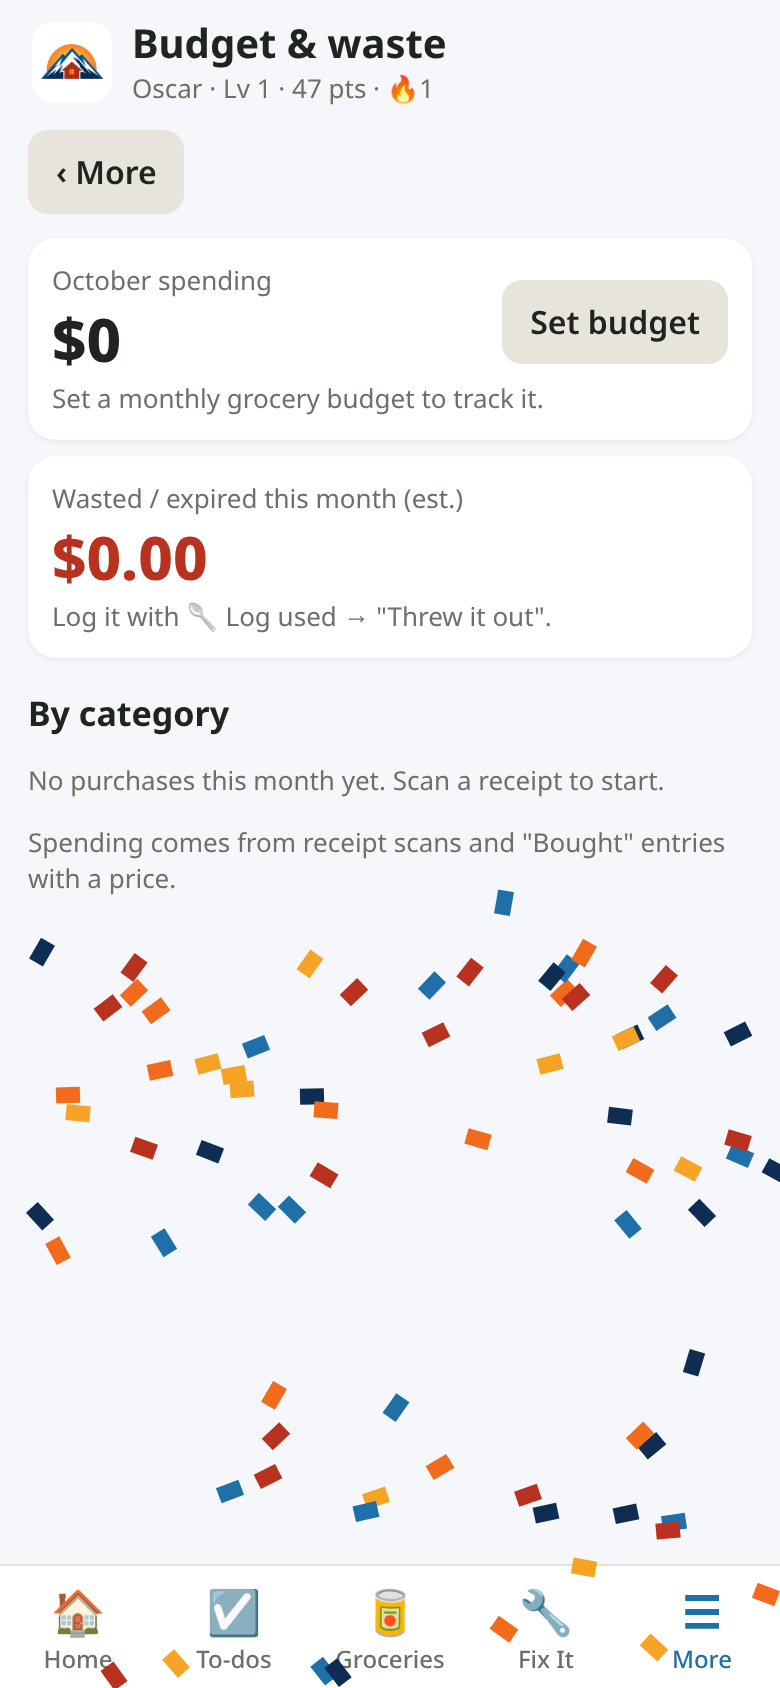
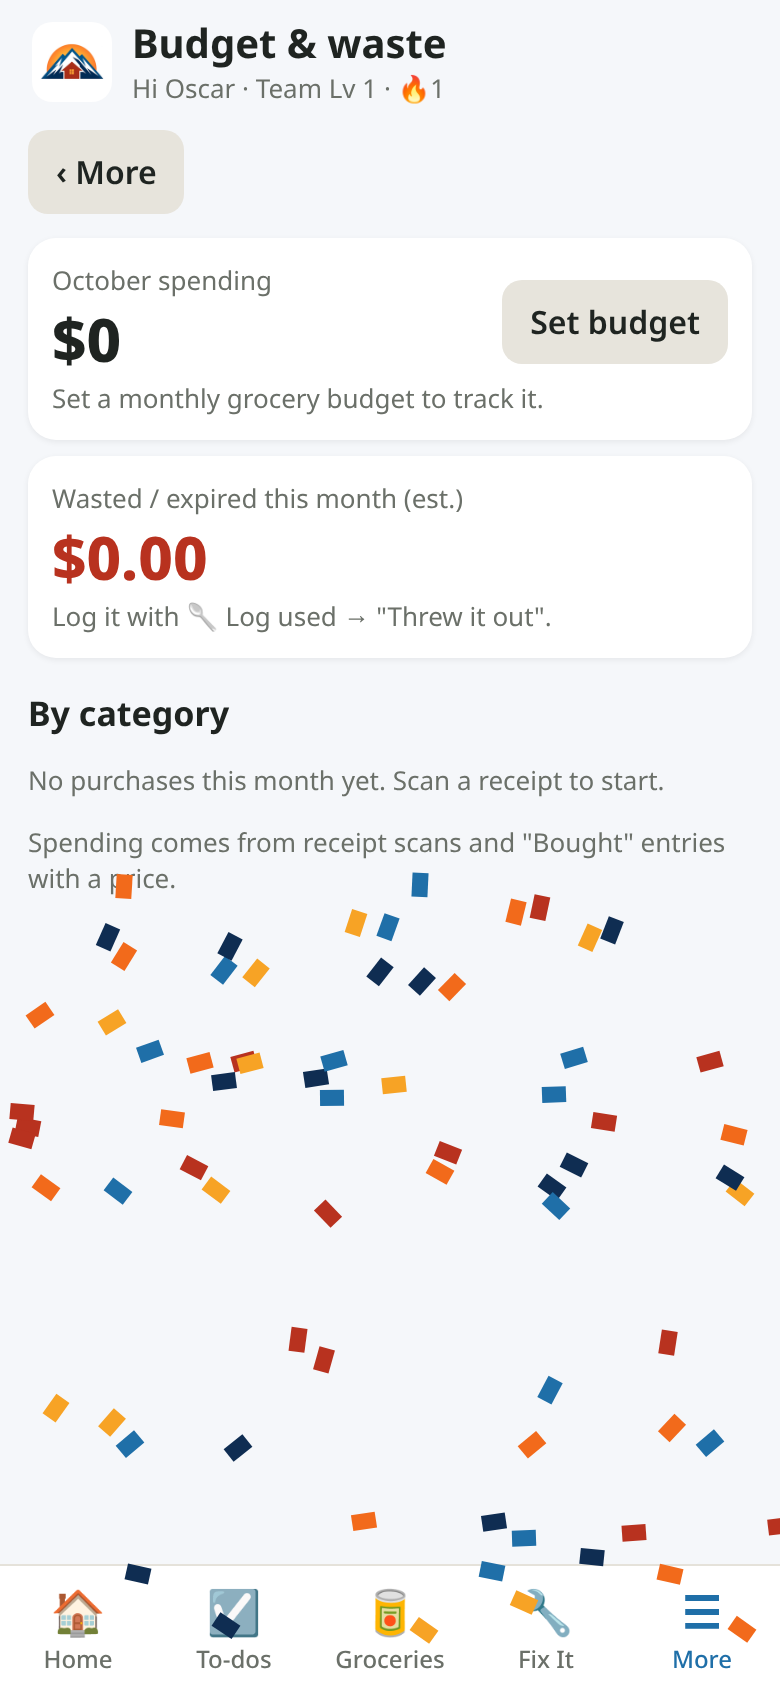
Cooperative game: team points/level/streak, weekly team goal, shared rewards, team badges, weekly recap with thanks; SW v6

diff --git a/index.html b/index.html
@@ -114,15 +114,15 @@ function events(){const ev=[];
  S.fixes.forEach(f=>{ev.push({who:f.by,pts:P.fixReq,at:f.at,k:'fixreq'});if(f.status==='fixed')ev.push({who:f.fixedBy||'oscar',pts:P.fix,at:f.fixedAt,k:'fix'})});
  return ev.filter(e=>e.who&&e.at)}
 const weekStart=d=>{const x=new Date(d);x.setHours(0,0,0,0);x.setDate(x.getDate()-x.getDay());return x};
-function stats(k){const ev=events().filter(e=>e.who===k),tot=ev.reduce((a,e)=>a+e.pts,0),ws=+weekStart(Date.now());
+function stats(k){const ev=events().filter(e=>!k||e.who===k),tot=ev.reduce((a,e)=>a+e.pts,0),ws=+weekStart(Date.now());
  const wk=ev.filter(e=>e.at>=ws).reduce((a,e)=>a+e.pts,0);
  const days=new Set(ev.map(e=>new Date(e.at).toLocaleDateString('en-CA')));let st=0,d=new Date();
  if(!days.has(d.toLocaleDateString('en-CA')))d.setDate(d.getDate()-1);
  while(days.has(d.toLocaleDateString('en-CA'))){st++;d.setDate(d.getDate()-1)}
  const lvl=Math.floor(Math.sqrt(tot/50))+1,cnt=x=>ev.filter(e=>e.k===x).length;
- const B=[['🌱','First points',tot>0],['✅','10 to-dos',cnt('todo')>=10],['🧾','Receipt scanner',cnt('scan')>=1],['🥕','Waste warrior (10 saves)',cnt('saved')>=10],
-  ['🔧','Fixer (5 fixes)',cnt('fix')>=5],['🔥','7-day streak',st>=7],['🏆','Level 5',lvl>=5],['💯','500 points',tot>=500]];
- const spent=S.logs.filter(l=>l.type==='redeem'&&l.by===k).reduce((a,l)=>a+(+l.cost||0),0);
+ const B=[['🌱','First team points',tot>0],['✅','25 to-dos together',cnt('todo')>=25],['🧾','First receipt scanned',cnt('scan')>=1],['🥕','Saved 10 foods from waste',cnt('saved')>=10],
+  ['🔧','5 fixes done',cnt('fix')>=5],['🧹','10 chores done',cnt('chore')>=10],['🍽','Cooked 5 planned meals',cnt('cook')>=5],['🔥','7-day team streak',st>=7],['🏡','Team level 5',lvl>=5],['💯','1,000 team points',tot>=1000]];
+ const spent=S.logs.filter(l=>l.type==='redeem').reduce((a,l)=>a+(+l.cost||0),0);
  return{tot,wk,st,lvl,next:50*lvl*lvl,B,bal:tot-spent}}
 function celebrate(p){const e=document.createElement('div');e.className='pop';e.textContent=typeof p==='number'?'+'+p+' pts':p;document.body.append(e);setTimeout(()=>e.remove(),1200);
  for(let i=0;i<24;i++){const c=document.createElement('i');c.className='conf';c.style.left=Math.random()*100+'vw';c.style.background=['#0f2d52','#f26a1b','#b8321f','#1f6fa8','#f7a325'][i%5];c.style.animationDelay=Math.random()*.3+'s';document.body.append(c);setTimeout(()=>c.remove(),2100)}
@@ -140,7 +140,7 @@ function R(){
  $('#nav').innerHTML=TABS.map(([k,i,l])=>`<button class="${S.tab===k?'on':''}" data-t="${k}"><b>${i}</b>${l}${k==='fix'&&openFix?`<span class="badge">${openFix}</span>`:''}</button>`).join('');
  $('#nav').querySelectorAll('button').forEach(b=>b.onclick=()=>{S.tab=b.dataset.t;S.sub=null;if(S.tab==='fix'){S.seenFix=Date.now();localStorage.seenFix=S.seenFix}R();scrollTo(0,0)});
  $('#ttl').textContent=S.sub?SUBS.find(x=>x[0]===S.sub)[2]:TABS.find(t=>t[0]===S.tab)[2];
- const st=stats(S.me);$('#who').textContent=`${nm(S.me)} · Lv ${st.lvl} · ${st.tot} pts · 🔥${st.st}`;
+ const st=stats();$('#who').textContent=`Hi ${nm(S.me)} · Team Lv ${st.lvl} · 🔥${st.st}`;
  $('#addBtn').hidden=!['todos','pantry','fix'].includes(S.tab);
  $('#main').innerHTML=S.sub?(S.sub!=='more'?'<button class="s" data-sub="" style="margin:4px 0">‹ More</button>':'')+VIEWS[S.sub]():({home:vHome,todos:vTodos,pantry:vPantry,fix:vFix,more:vMore})[S.tab]();
  bind()}
@@ -173,14 +173,30 @@ function vStats(){const now=new Date(),start=S.cmp==='week'?weekStart(now):new D
  <div class="sub">Bought ${+r.b.toFixed(2)} · Used ${+r.u.toFixed(2)} · Wasted ${+r.w.toFixed(2)} ${esc(r.i.unit)}</div>
  <div class="bar" style="margin-top:6px"><i style="width:${r.u/m*100}%;background:var(--g)"></i><i style="width:${r.w/m*100}%;background:var(--r)"></i><i style="width:${Math.max(0,r.b-r.u-r.w)/m*100}%;background:#cfd8d3"></i></div></div>`}).join('')||'<p class="sub">No purchases or usage logged in this period yet.</p>'}
  <p class="sub">🟩 used · 🟥 wasted/expired · ⬜ still left</p>`}
-function vGame(){const o=stats('oscar'),w=stats('wife'),lead=o.wk===w.wk?'Tied this week!':(o.wk>w.wk?nm('oscar'):nm('wife'))+' leads this week';
- const card=(k,s)=>`<div class="card"><div class="row"><b>${esc(nm(k))}</b><span class="n pill lo">Lv ${s.lvl}</span></div>
- <div class="row center" style="margin:8px 0"><div><div class="big">${s.wk}</div><div class="sub">this week</div></div><div><div class="big">${s.tot}</div><div class="sub">total</div></div><div><div class="big">🔥${s.st}</div><div class="sub">day streak</div></div></div>
- <div class="bar"><i style="width:${Math.min(100,s.tot/s.next*100)}%;background:var(--o)"></i></div><div class="sub">${s.next-s.tot} pts to level ${s.lvl+1}</div>
- <div style="margin-top:8px">${s.B.map(([i,l,on])=>`<span class="pill" style="opacity:${on?1:.3}" title="${l}">${i} ${l}</span>`).join(' ')}</div></div>`;
- return `<div class="card center"><div class="sub">Weekly scoreboard</div><div class="big">${o.wk} – ${w.wk}</div><div>${esc(lead)} 🏆</div></div>${card('oscar',o)}${card('wife',w)}
- <div class="card sub">Points: to-do ${P.todo} · fix ${P.fix} · fix request ${P.fixReq} · log usage ${P.used} (+${P.beforeExp} if used before it expires) · log purchase ${P.bought} · receipt scan ${P.scan}. Week resets Sunday.</div>
- <div class="card"><label class="sub">Names</label><div class="row"><input id="n1" value="${esc(nm('oscar'))}"><input id="n2" value="${esc(nm('wife'))}"><button class="n" id="saveN">Save</button></div>
+const goal=()=>+S.meta.goal||300;
+function goalCard(){const t=stats(),g=goal(),p=Math.min(100,t.wk/g*100);
+ return `<div class="card" data-go="score"><div class="row"><b>Team goal: ${g} pts this week</b><span class="n sub">${t.wk>=g?'🎉 Done!':''}</span></div>
+ <div class="bar" style="height:14px;margin:8px 0"><i style="width:${p}%;background:linear-gradient(90deg,var(--teal),var(--o))"></i></div>
+ <div class="sub">${t.wk} pts so far${t.wk<g?` · ${g-t.wk} to go together`:' · nice work, team!'}</div></div>`}
+function recap(){const ws=+weekStart(Date.now()),ev=events().filter(e=>e.at>=ws),c=k=>ev.filter(e=>e.k===k).length;
+ const now=new Date(),ms=+new Date(now.getFullYear(),now.getMonth(),1),b=+S.meta.budget||0;
+ const spent=S.logs.filter(l=>l.type==='bought'&&l.at>=ms).reduce((a,l)=>a+(+l.price||0),0);
+ const L=[[c('todo'),'to-dos done','✅'],[c('fix'),'things fixed','🔧'],[c('saved')+c('used'),'foods used up','🥕'],[c('chore'),'chores done','🧹'],[c('cook'),'home-cooked dinners','🍽'],[c('maint'),'home care tasks','🛠']].filter(x=>x[0]);
+ const thanks=['oscar','wife'].map(k=>{const e=ev.filter(x=>x.who===k),bits=[];const n=x=>e.filter(y=>y.k===x).length;
+  if(n('fix'))bits.push(`fixed ${n('fix')} thing${n('fix')>1?'s':''}`);if(n('todo'))bits.push(`finished ${n('todo')} to-do${n('todo')>1?'s':''}`);
+  const items=S.logs.filter(l=>l.type==='bought'&&l.by===k&&l.at>=ws).length;if(items)bits.push(`added ${items} item${items>1?'s':''}`);
+  if(n('chore'))bits.push(`did ${n('chore')} chore${n('chore')>1?'s':''}`);if(n('cook'))bits.push(`cooked dinner`);if(n('fixreq'))bits.push(`spotted ${n('fixreq')} fix${n('fixreq')>1?'es':''}`);
+  return bits.length?`💛 Thanks ${esc(nm(k))}: ${bits.join(', ')}`:''}).filter(Boolean);
+ return `<div class="card"><b>This week we…</b>${L.length?L.map(x=>`<div style="margin-top:6px">${x[2]} ${x[0]} ${x[0]===1?x[1].replace(/^(\S+?)s\b/,'$1').replace('dinners','dinner').replace('tasks','task').replace('foods','food'):x[1]}</div>`).join(''):'<div class="sub" style="margin-top:6px">Just getting started. Every little thing counts!</div>'}
+ ${b?`<div style="margin-top:6px">💵 ${spent<=b?`$${(b-spent).toFixed(0)} under budget this month`:`$${(spent-b).toFixed(0)} over budget this month`}</div>`:''}
+ ${thanks.length?`<div class="sub" style="margin-top:10px">${thanks.join('<br>')}</div>`:''}</div>`}
+function vGame(){const t=stats();
+ return goalCard()+`<div class="card"><div class="row center"><div><div class="big">${t.tot}</div><div class="sub">team points</div></div><div><div class="big">Lv ${t.lvl}</div><div class="sub">team level</div></div><div><div class="big">🔥${t.st}</div><div class="sub">day streak</div></div></div>
+ <div class="bar" style="margin-top:8px"><i style="width:${Math.min(100,t.tot/t.next*100)}%;background:var(--o)"></i></div><div class="sub">${t.next-t.tot} pts to team level ${t.lvl+1}</div></div>`+recap()+
+ `<h2>Team badges</h2><div class="card">${t.B.map(([i,l,on])=>`<span class="pill" style="opacity:${on?1:.3};margin:3px 2px">${i} ${l}</span>`).join(' ')}</div>
+ <div class="card sub">Everything you both do adds to one team total: to-do ${P.todo} · fix ${P.fix} · spotting a fix ${P.fixReq} · using food ${P.used} (+${P.beforeExp} before it expires) · purchase ${P.bought} · receipt scan ${P.scan} · chores & home care too. Spend team points together in the Rewards shop.</div>
+ <div class="card"><label class="sub">Weekly team goal (points)</label><div class="row"><input id="tg" type="number" inputmode="numeric" value="${goal()}"><button class="n" id="saveG">Save</button></div>
+ <label class="sub" style="margin-top:10px;display:block">Names</label><div class="row"><input id="n1" value="${esc(nm('oscar'))}"><input id="n2" value="${esc(nm('wife'))}"><button class="n" id="saveN">Save</button></div>
  <p class="sub">Signed in as ${esc(auth.currentUser?.email)} · <a href="#" id="so2">Sign out</a></p></div>`}
 // ---------- sheets ----------
 function sheet(html,onSave){$('#sheet').innerHTML=`<div class="sheet"><div>${html}<div class="row" style="margin-top:14px"><button class="s" id="shX">Cancel</button>${onSave?'<button id="shOk">Save</button>':''}</div></div></div>`;
@@ -271,14 +287,14 @@ function quickUse(){if(!S.items.length){alert('Your pantry is empty. Scan a rece
  async()=>{const i=S.items.find(x=>x.id===$('#qi').value),q=+val('qq');if(!i||!q)return false;const p=await logQty(i,$('#qt').value,q);if(p)celebrate(p)})}
 function maintDue(){return S.maint.map(m=>({...m,due:m.last?addDays(m.last,m.every):today()})).sort((a,b)=>a.due>b.due?1:-1)}
 function nextDates(){return S.dates.map(d=>{let n=d.date;if(d.yearly&&n){const t=today(),y=+t.slice(0,4);n=y+n.slice(4);if(n<t)n=(y+1)+n.slice(4)}return{...d,next:n,days:n?daysTo(n):null,yrs:d.yearly&&d.date?(+String(n).slice(0,4))-(+d.date.slice(0,4)):0}}).filter(d=>d.next).sort((a,b)=>a.days-b.days)}
-function vHome(){const st=stats(S.me),o=stats('oscar'),w=stats('wife'),t=today();
+function vHome(){const t=today();
  const dueT=S.todos.filter(x=>!x.done&&x.due&&x.due<=t&&(x.who===S.me||x.who==='both')).length,fx=S.fixes.filter(f=>f.status!=='fixed').length,sh=lowItems().length+S.shop.filter(x=>!x.done).length;
  const md=maintDue().filter(m=>m.due<=addDays(t,7)),ch=S.chores.filter(c=>c.next<=t),nd=nextDates()[0],dinner=(S.meta.plan||{})[t],dm=dinner&&S.meals.find(m=>m.id===dinner);
  const big=(a,i,l)=>`<button data-q="${a}" style="padding:18px 8px;font-size:17px;border-radius:16px"><div style="font-size:30px">${i}</div>${l}</button>`;
  const line=(i,txt,go)=>`<div class="card row" data-go="${go}"><span class="n" style="font-size:22px">${i}</span><div>${txt}</div><span class="n sub">›</span></div>`;
- return (localStorage.hintDone?'':`<div class="card" style="background:#fff7ec"><b>Welcome to Arpero Family 👋</b><div class="sub" style="margin:6px 0">Use the big buttons for the everyday stuff. Everything syncs between both phones. You both earn points: to-dos, fixes, chores, and using food before it goes bad. Budget, meals, chores, rewards, home care and date night are under More.</div><button class="s" id="hintX">Got it</button></div>`)+
+ return (localStorage.hintDone?'':`<div class="card" style="background:#fff7ec"><b>Welcome to Arpero Family 👋</b><div class="sub" style="margin:6px 0">Use the big buttons for the everyday stuff. Everything syncs between both phones. Everything you both do adds to one team score: to-dos, fixes, chores, and using food before it goes bad. Budget, meals, chores, rewards, home care and date night are under More.</div><button class="s" id="hintX">Got it</button></div>`)+
  `<div style="display:grid;grid-template-columns:1fr 1fr;gap:10px;margin:8px 0">${big('scan','🧾','Scan receipt')}${big('fix','📸','Fix It photo')}${big('todo','✅','Add to-do')}${big('use','🥄','Log used')}</div>
- <div class="card row center" data-go="score"><div><div class="sub">${esc(nm('oscar'))}</div><div class="big">${o.wk}</div></div><div class="n">🏆<div class="sub">this week</div></div><div><div class="sub">${esc(nm('wife'))}</div><div class="big">${w.wk}</div></div></div>`+
+ ${goalCard()}`+
  (dueT?line('☑',`<b>${dueT}</b> to-do${dueT>1?'s':''} due for you`,'t:todos'):'')+
  (fx?line('🔧',`<b>${fx}</b> open Fix It request${fx>1?'s':''}`,'t:fix'):'')+
  (ch.length?line('🧹',`Chore: <b>${esc(ch[0].name)}</b> (${esc(nm(ch[0].turn))})${ch.length>1?` + ${ch.length-1} more`:''}`,'chores'):'')+
@@ -286,7 +302,7 @@ function vHome(){const st=stats(S.me),o=stats('oscar'),w=stats('wife'),t=today()
  (sh?line('🛒',`<b>${sh}</b> on the shopping list`,'t:shop'):'')+
  line('🍽',dm?`Tonight: <b>${esc(dm.name)}</b>`:'No dinner planned tonight','meals')+
  (nd?line('📅',`<b>${esc(nd.name)}</b> ${nd.days===0?'is today! 🎉':'in '+nd.days+' day'+(nd.days>1?'s':'')}`,'dates'):'')}
-const SUBS=[['budget','💵','Budget & waste'],['compare','📊','Bought vs used'],['meals','🍽','Meal planner'],['chores','🧹','Chores'],['rewards','🎁','Rewards shop'],['maint','🛠','Home care'],['dates','💑','Date night & dates'],['score','🏆','Scoreboard & settings']];
+const SUBS=[['budget','💵','Budget & waste'],['compare','📊','Bought vs used'],['meals','🍽','Meal planner'],['chores','🧹','Chores'],['rewards','🎁','Rewards shop'],['maint','🛠','Home care'],['dates','💑','Date night & dates'],['score','🏡','Team & settings']];
 function vMore(){return SUBS.map(([k,i,l])=>`<div class="card row" data-sub="${k}"><span class="n" style="font-size:24px">${i}</span><b>${l}</b><span class="n sub">›</span></div>`).join('')}
 function vBudget(){const now=new Date(),ms=+new Date(now.getFullYear(),now.getMonth(),1),b=+S.meta.budget||0;
  const L=S.logs.filter(l=>l.at>=ms&&l.item),cat={};let spent=0,waste=0;
@@ -312,9 +328,9 @@ function editMeal(m={}){sheet(`<h2>${m.id?'Edit':'New'} meal</h2><label>Name</la
 function vChores(){const t=today();return `<p class="sub">Chores repeat and take turns between you two. Done = points.</p>`+S.chores.slice().sort((a,b)=>a.next>b.next?1:-1).map(c=>`<div class="card row"><div data-chore="${c.id}"><b>${esc(c.name)}</b><div class="sub">${esc(nm(c.turn))}'s turn · every ${c.every} days · ${c.pts} pts ${c.next<=t?'<span class="pill hi">Due</span>':`<span class="pill">${c.next.slice(5)}</span>`}</div></div><button class="n" data-chdone="${c.id}">Done</button></div>`).join('')+`<button class="s" id="newChore" style="width:100%">＋ New chore</button>`}
 function editChore(c={}){sheet(`<h2>${c.id?'Edit':'New'} chore</h2><label>Chore</label><input id="cn" value="${esc(c.name)}" placeholder="Take out trash"><div class="row"><div><label>Every (days)</label><input id="ce" type="number" inputmode="numeric" value="${c.every||7}"></div><div><label>Points</label><input id="cp" type="number" inputmode="numeric" value="${c.pts||10}"></div></div><label>Whose turn first</label>${whoSel(c.turn||S.me).replace('<option value="both"','<option disabled value="both"')}${c.id?'<button class="d" id="cdel">Delete</button>':''}`,
  ()=>{if(!val('cn'))return false;save('chores',{id:c.id||uid(),name:val('cn'),every:+val('ce')||7,pts:+val('cp')||10,turn:$('#fw').value==='both'?'oscar':$('#fw').value,next:c.next||today()})});if(c.id)$('#cdel').onclick=()=>{del('chores',c.id);close()}}
-function vRewards(){const st=stats(S.me);return `<div class="card center"><div class="sub">Your points to spend</div><div class="big">${st.bal}</div></div><p class="sub">Make up prizes together (back rub, pick the movie, sleep in…). Redeem with points.</p>`+
- S.rewards.map(r=>`<div class="card row"><div><b>${esc(r.name)}</b><div class="sub">${r.cost} pts</div></div><button class="n" data-redeem="${r.id}" ${st.bal<r.cost?'disabled style="opacity:.4"':''}>Redeem</button><button class="d n" data-rdel="${r.id}">✕</button></div>`).join('')+`<button class="s" id="newReward" style="width:100%">＋ New prize</button>
- <h2>Recently redeemed</h2>${S.logs.filter(l=>l.type==='redeem').sort((a,b)=>b.at-a.at).slice(0,8).map(l=>`<div class="sub">🎁 ${esc(nm(l.by))}: ${esc(l.name)} (−${l.cost}) · ${new Date(l.at).toLocaleDateString()}</div>`).join('')||'<p class="sub">None yet.</p>'}`}
+function vRewards(){const st=stats();return `<div class="card center"><div class="sub">Team points to spend</div><div class="big">${st.bal}</div></div><p class="sub">Shared treats you unlock together. Pick them as a team.</p>`+(S.rewards.length?'':`<div class="card"><p>Start with a few ideas? Movie night, takeout night, date night…</p><button id="seedR">Add starter rewards</button></div>`)+
+ S.rewards.map(r=>`<div class="card row"><div><b>${esc(r.name)}</b><div class="sub">${r.cost} pts</div></div><button class="n" data-redeem="${r.id}" ${st.bal<r.cost?'disabled style="opacity:.4"':''}>${st.bal<r.cost?'🔒 '+(r.cost-st.bal)+' to go':'Unlock'}</button><button class="d n" data-rdel="${r.id}">✕</button></div>`).join('')+`<button class="s" id="newReward" style="width:100%">＋ New prize</button>
+ <h2>Recently redeemed</h2>${S.logs.filter(l=>l.type==='redeem').sort((a,b)=>b.at-a.at).slice(0,8).map(l=>`<div class="sub">🎁 ${esc(l.name)} (−${l.cost}) · ${new Date(l.at).toLocaleDateString()}</div>`).join('')||'<p class="sub">None yet.</p>'}`}
 const MDEF=[['Replace AC filter',90],['Flush water heater',365],['Test smoke detectors',30],['Replace smoke detector batteries',365],['Check Powerwall & solar in Tesla app',30],['Inspect EV charger & cable',90],['Clean dryer vent',365],['Clean fridge coils',180]];
 function vMaint(){const L=maintDue();return (L.length?'':`<div class="card"><p>Start with the usual list? (AC filter, water heater, smoke detectors, Powerwall/solar, EV charger…)</p><button id="seedM">Add the usual list</button></div>`)+
  L.map(m=>{const d=daysTo(m.due);return`<div class="card row"><div data-mt="${m.id}"><b>${esc(m.name)}</b><div class="sub">every ${m.every} days · ${m.last?'last '+m.last.slice(5):'never logged'} ${d<=0?'<span class="pill hi">Due</span>':d<=7?`<span class="pill md">in ${d}d</span>`:`<span class="pill">in ${d}d</span>`}</div></div><button class="n" data-mdone="${m.id}">Done</button></div>`}).join('')+`<button class="s" id="newMaint" style="width:100%">＋ New reminder</button>`}
@@ -346,7 +362,9 @@ function bindExtra(on){
  on('[data-chore]',e=>editChore(S.chores.find(x=>x.id===e.dataset.chore)));on('#newChore',()=>editChore());
  on('[data-chdone]',async e=>{const c=S.chores.find(x=>x.id===e.dataset.chdone);await save('chores',{...c,next:addDays(today(),c.every),turn:c.turn==='oscar'?'wife':'oscar'});await plog('chore',c.pts,{name:c.name});celebrate(c.pts)});
  on('#newReward',()=>sheet(`<h2>New prize</h2><label>Prize</label><input id="rn" placeholder="Pick the movie"><label>Cost (points)</label><input id="rc" type="number" inputmode="numeric" value="100">`,()=>{if(!val('rn'))return false;save('rewards',{id:uid(),name:val('rn'),cost:+val('rc')||100})}));
- on('[data-redeem]',async e=>{const r=S.rewards.find(x=>x.id===e.dataset.redeem);if(stats(S.me).bal<r.cost||!confirm(`Redeem "${r.name}" for ${r.cost} points?`))return;await plog('redeem',0,{name:r.name,cost:r.cost});celebrate('🎁')});
+ on('[data-redeem]',async e=>{const r=S.rewards.find(x=>x.id===e.dataset.redeem);if(stats().bal<r.cost||!confirm(`Unlock "${r.name}" for ${r.cost} team points?`))return;await plog('redeem',0,{name:r.name,cost:r.cost});celebrate('🎁')});
+ on('#seedR',async()=>{for(const [n,c] of [['🍿 Movie night',150],['🥡 Takeout night',300],['🍦 Ice cream run',100],['💑 Date night out',500],['😴 Sleep-in Saturday',250]])await save('rewards',{id:uid(),name:n,cost:c})});
+ on('#saveG',()=>F.setDoc(dref('meta','settings'),{goal:+val('tg')||300},{merge:true}));
  on('[data-rdel]',e=>del('rewards',e.dataset.rdel));
  on('#seedM',async()=>{for(const [n,d] of MDEF)await save('maint',{id:uid(),name:n,every:d,last:''})});
  on('[data-mt]',e=>editMaint(S.maint.find(x=>x.id===e.dataset.mt)));on('#newMaint',()=>editMaint());

diff --git a/sw.js b/sw.js
@@ -1,4 +1,4 @@
-const C='arpero-family-v5',F=['./','index.html','parse.js','manifest.json','icon-180.png','icon-192.png','icon-512.png','apple-touch-icon.png','logo.png','favicon-32.png'];
+const C='arpero-family-v6',F=['./','index.html','parse.js','manifest.json','icon-180.png','icon-192.png','icon-512.png','apple-touch-icon.png','logo.png','favicon-32.png'];
 self.addEventListener('install',e=>{e.waitUntil(caches.open(C).then(c=>c.addAll(F)));self.skipWaiting()});
 self.addEventListener('activate',e=>e.waitUntil(caches.keys().then(k=>Promise.all(k.filter(x=>x!==C).map(x=>caches.delete(x))))));
 self.addEventListener('fetch',e=>{if(e.request.method!=='GET'||new URL(e.request.url).origin!==location.origin)return;e.respondWith(fetch(e.request).then(r=>{const c=r.clone();caches.open(C).then(x=>x.put(e.request,c));return r}).catch(()=>caches.match(e.request)))});
